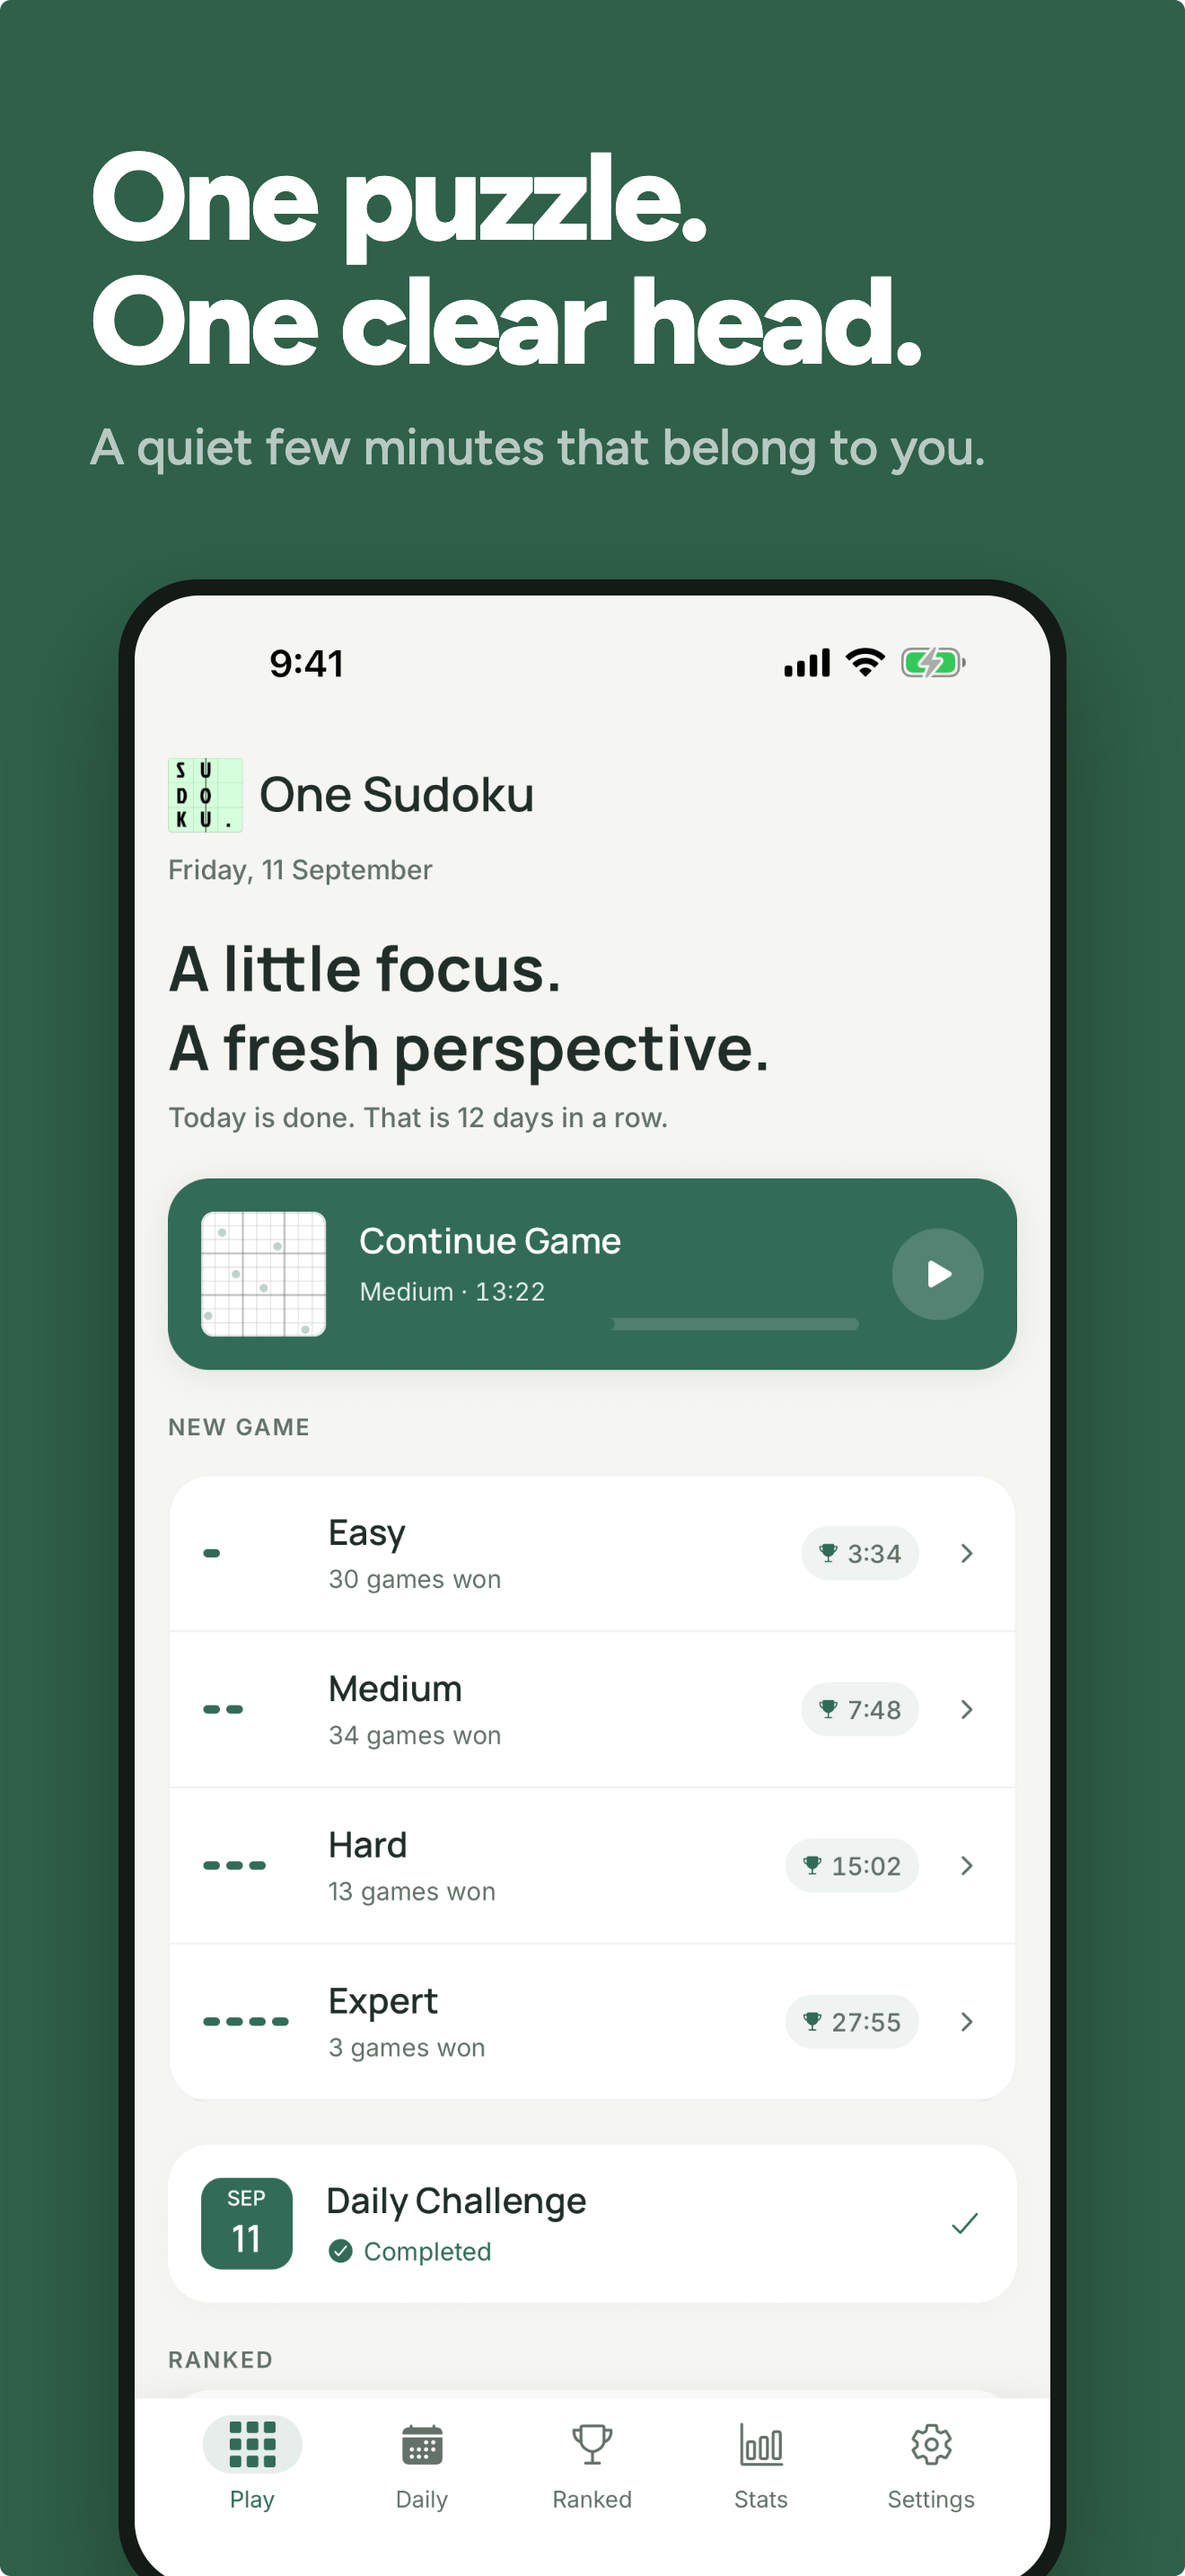
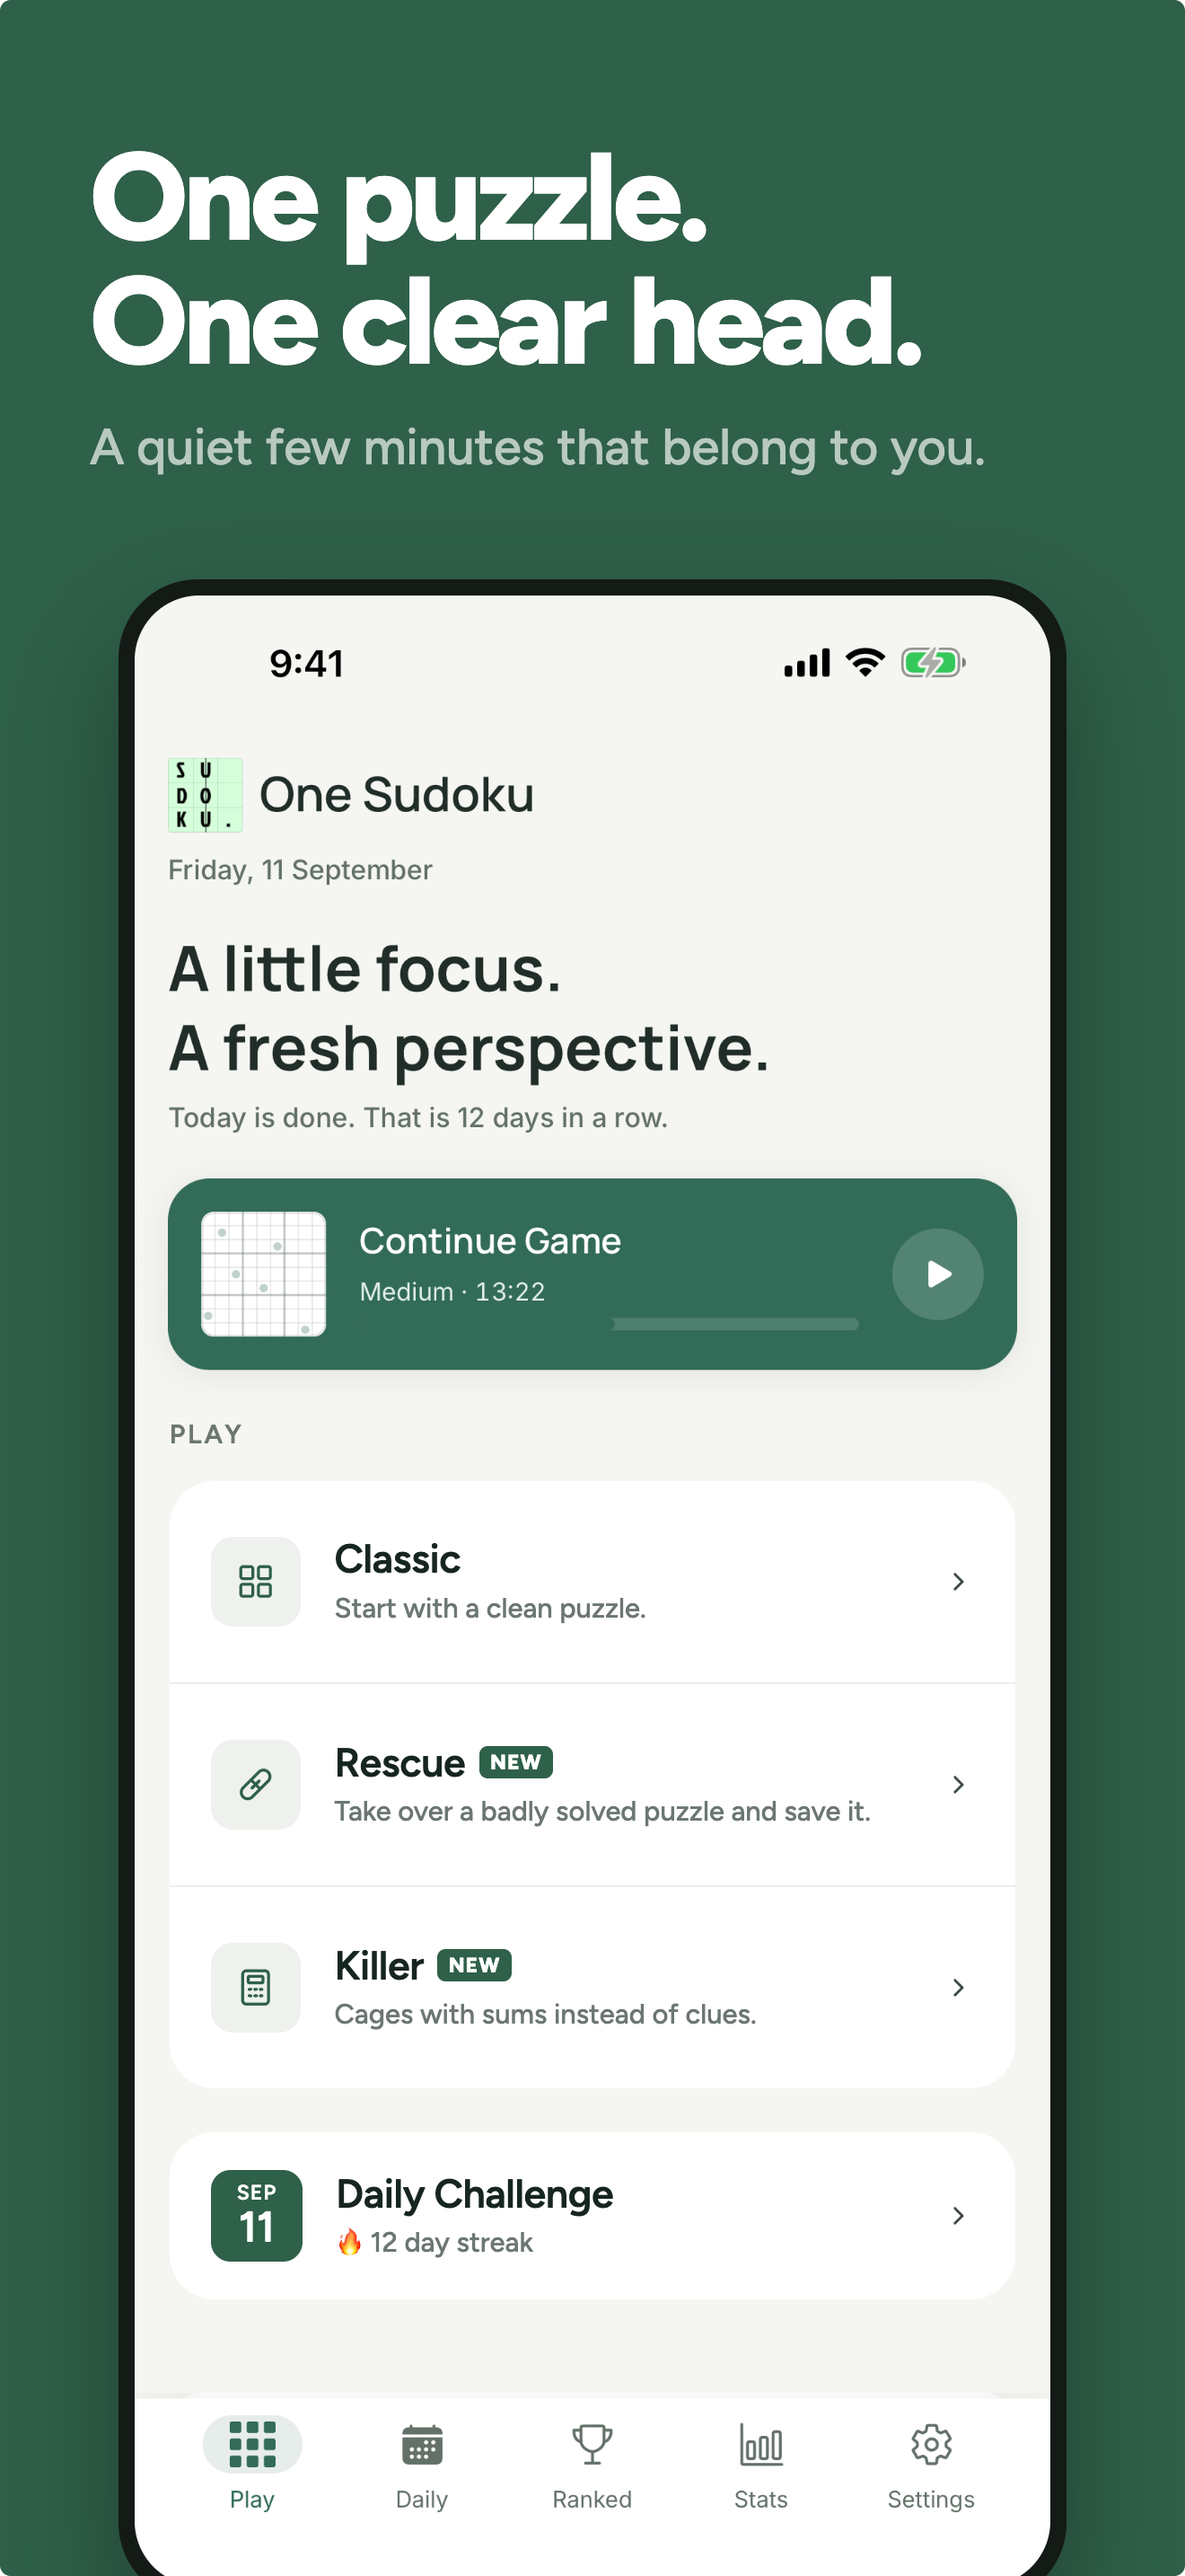
Add Killer, Rescue and Haunted Manor, and mention ad-free Premium
The landing page now describes the three sudoku modes and the Haunted
Manor Halloween puzzle, with refreshed screenshots. The FAQ, support page
and llms.txt say that the optional Premium removes all ads, at $1.99 a
month, $11.99 a year or $29.99 once, and the trust row no longer claims
there is no subscription.

diff --git a/src/pages/llms.txt.ts b/src/pages/llms.txt.ts
@@ -11,13 +11,15 @@ export const GET: APIRoute = async () => {
 
   const body = `# One Sudoku
 
-> One Sudoku is a free, minimal sudoku game for iPhone, iPad, and Android. Four difficulty levels, a daily challenge, and unlimited offline puzzles, with no account required.
+> One Sudoku is a free, minimal sudoku game for iPhone, iPad, and Android. Classic, Killer, and Rescue sudoku, the Haunted Manor Halloween puzzle, a daily challenge, and unlimited offline puzzles, with no account required.
 
 Key facts:
 
-- Price: free to download and play, supported by minimal banner ads and optional rewarded video ads for extra hints.
+- Price: free to download and play, supported by minimal banner ads and optional rewarded video ads for extra hints. An optional Premium removes all ads, refills hints every game, and adds a monthly report: $1.99 a month, $11.99 a year, or $29.99 once (US prices).
 - Platforms: iPhone and iPad (App Store), Android phones and tablets (Google Play)
-- Difficulty levels: Easy, Medium, Hard, and Expert.
+- Game modes: Classic sudoku; Killer sudoku, where cages with sums replace the given numbers; and Rescue, where the player takes over a badly solved puzzle and fixes it.
+- Difficulty levels: Classic has Easy, Medium, Hard, and Expert. Killer and Rescue have their own levels.
+- Haunted Manor: a Halloween logic puzzle alongside the sudoku modes. The player hides one ghost on every row, column, and coloured room, with no two ghosts touching. Three sizes: Cottage, Manor, and Castle.
 - Daily Challenge: one puzzle a day, the same for every player worldwide, with a streak for solving it each day.
 - Offline: the apps generate puzzles on the device and need no internet connection.
 - Accounts: optional. Everything can be played as a guest; signing in with Google, Apple, or email syncs progress and streaks across devices.
